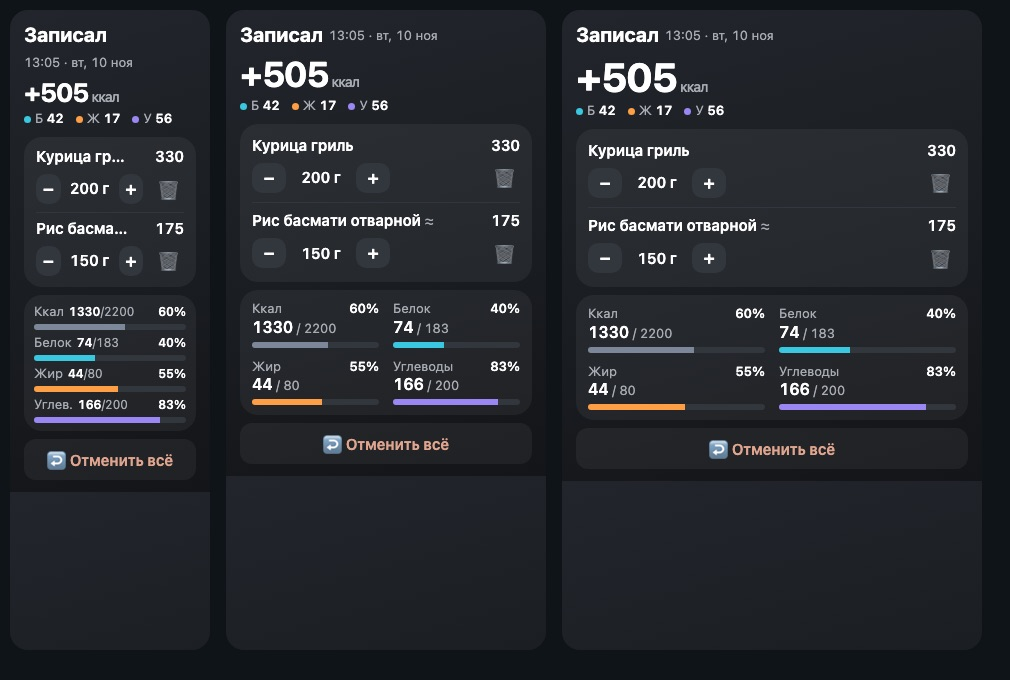
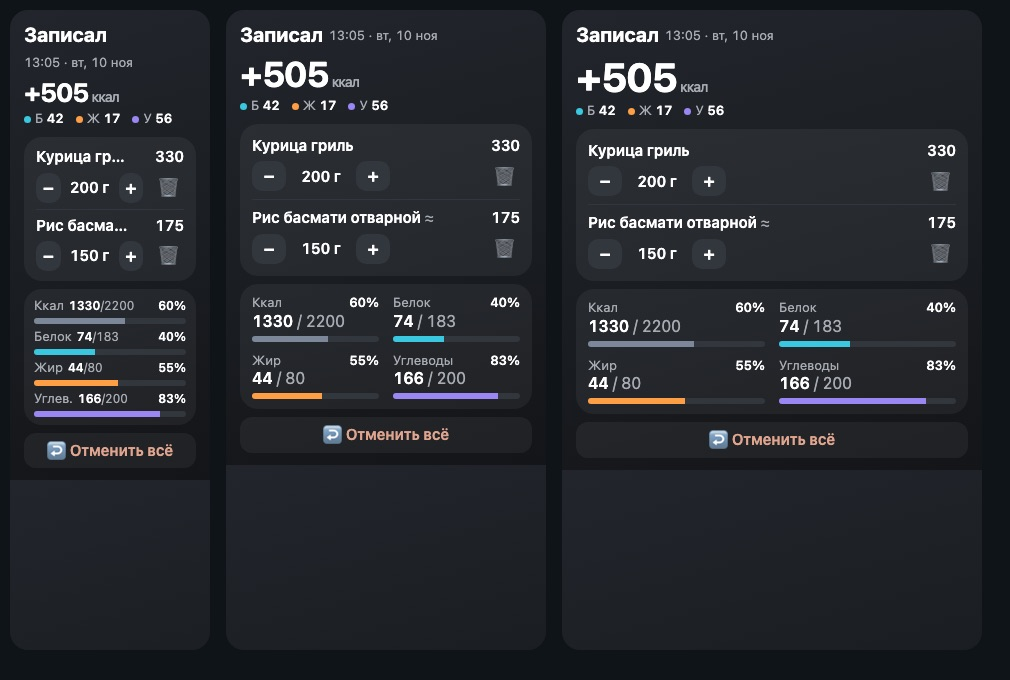
feat(bot): числа и графики виджетов растут при появлении

diff --git a/app/bot/widgets/meal.html b/app/bot/widgets/meal.html
@@ -1,40 +1,41 @@
 <style>
-:root{color-scheme:light dark;--t:light-dark(#0e1013,#fff);--m:light-dark(#4e5560,#a7abb2);--b1:light-dark(#f7f9fc,#22262c);--b2:light-dark(#e2e8f0,#131518);--cd:light-dark(rgba(255,255,255,.72),rgba(255,255,255,.055));--tr:light-dark(#d3dae3,#32363d);--br:light-dark(#5f6b7b,#7c8899);--pr:light-dark(#0b7d91,#3ac8e0);--fa:light-dark(#b25500,#ff9f45);--ca:light-dark(#6650d6,#9a87f4);--dg:light-dark(#c4281c,#ff453a);--ac:light-dark(#2d6a93,#5e9ac1);--at:light-dark(#fff,#0e1013);--al:light-dark(#9c4a2f,#e0a58f);--ok:light-dark(#1d7a3a,#34c759)}
+:root{color-scheme:light dark;--t:light-dark(#0e1013,#fff);--m:light-dark(#4e5560,#a7abb2);--b1:light-dark(#f7f9fc,#22262c);--b2:light-dark(#e2e8f0,#131518);--cd:light-dark(#ffffffb8,#ffffff0e);--tr:light-dark(#d3dae3,#32363d);--br:light-dark(#5f6b7b,#7c8899);--pr:light-dark(#0b7d91,#3ac8e0);--fa:light-dark(#b25500,#ff9f45);--ca:light-dark(#6650d6,#9a87f4);--dg:light-dark(#c4281c,#ff453a);--ac:light-dark(#2d6a93,#5e9ac1);--at:light-dark(#fff,#0e1013);--al:light-dark(#9c4a2f,#e0a58f)}
 body{margin:0;padding:12px 14px max(12px,env(safe-area-inset-bottom));font:15px/1.3 system-ui,sans-serif;overflow-wrap:anywhere;color:var(--t);background:linear-gradient(165deg,var(--b1),var(--b2));font-variant-numeric:tabular-nums}
 .r{display:flex;align-items:center;gap:6px}.sp{flex:1}.m{color:var(--m);font-size:13px}header{flex-wrap:wrap;margin-bottom:8px}header b{font-size:20px}
 .bg{font-size:clamp(26px,11vw,40px);font-weight:700;letter-spacing:-1px;line-height:1.05}.bg small{font-size:14px;color:var(--m);font-weight:500;margin-left:3px}
 .mc{display:flex;flex-wrap:wrap;gap:4px 12px;font-size:13px;color:var(--m);margin:4px 0 10px}.mc b{color:var(--t);font-weight:600}.d{display:inline-block;width:7px;height:7px;border-radius:50%;margin-right:4px}
 .c{background:var(--cd);border-radius:18px;padding:4px 12px;margin-bottom:8px}
 .it{display:grid;grid-template-columns:minmax(0,1fr) auto auto;gap:6px 10px;padding:8px 0;border-top:1px solid var(--tr);align-items:center;cursor:pointer}.it:first-child{border:0}.it .m{text-align:right}.ed{grid-column:1/3}
-.nm{overflow:hidden;text-overflow:ellipsis;white-space:nowrap;font-weight:600}.nm s{text-decoration:none;color:var(--m);font-weight:400}.kc{text-align:right;font-weight:600}.kc.pv{color:var(--m)}
-button{font:600 15px system-ui,sans-serif;border:0;border-radius:12px;background:var(--cd);color:var(--t);padding:6px 12px;cursor:pointer}
+.nm{overflow:hidden;text-overflow:ellipsis;white-space:nowrap;font-weight:600}.nm s,.dy s{text-decoration:none;color:var(--m);font-weight:400}.kc{text-align:right;font-weight:600}.kc.pv{color:var(--m)}
+button{font:inherit;font-weight:600;border:0;border-radius:12px;background:var(--cd);color:var(--t);padding:6px 12px;cursor:pointer}
 .st{display:flex;align-items:center;gap:4px}.st button{width:34px;height:30px;padding:0;border-radius:10px;background:var(--tr);font-size:18px;line-height:1}.st b{min-width:62px;text-align:center;font-weight:600}.st b.pv{color:var(--ac)}
 .dl{background:none;color:var(--al);padding:4px 6px;justify-self:end}.bz{opacity:.45;pointer-events:none}
-.tk{height:6px;border-radius:3px;background:var(--tr);margin:5px 0 8px;overflow:hidden}.tk i{display:block;height:100%}
-.dy{padding:10px 12px;display:grid;grid-template-columns:repeat(2,minmax(0,1fr));gap:10px 14px}.dy>div{display:grid;grid-template-columns:minmax(0,1fr) auto;align-items:baseline;font-size:13px}.dy>div>b{grid-column:1/3;font-size:16px;font-weight:600}.dy s{text-decoration:none;color:var(--m);font-weight:400;font-size:13px}.dy>div>i{font-style:normal;font-weight:600}.dy .tk{grid-column:1/-1;margin:4px 0 0}
+.tk{height:6px;border-radius:3px;background:var(--tr);overflow:hidden;grid-column:1/-1;margin-top:4px;order:3}.tk i{display:block;height:100%}
+.dy{padding:10px 12px;display:grid;grid-template-columns:repeat(2,minmax(0,1fr));gap:10px 14px}.dy>div{display:grid;grid-template-columns:minmax(0,1fr) auto;align-items:baseline;font-size:13px}.dy>div>b{grid-column:1/3;font-size:16px;font-weight:600}.dy>div>i{font-style:normal;font-weight:600}
 #ac{display:flex;gap:8px;flex-wrap:wrap}#ac button{flex:1 1 120px;white-space:nowrap;padding:8px}.un{color:var(--al)}.bk{background:var(--ac);color:var(--at)}
 #ts{font-size:13px;margin-top:8px;color:var(--m)}#ts:empty{display:none}
-@media (max-width:260px){.st b{min-width:50px}.st button{width:28px}.bg{font-size:26px}.it{padding:6px 0}.dy{grid-template-columns:minmax(0,1fr);gap:4px;padding:8px 10px}.dy>div{grid-template-columns:auto minmax(0,1fr) auto;column-gap:5px;font-size:12px}.dy>div>b{grid-column:auto;order:1;font-size:12px;white-space:nowrap}.dy s{font-size:12px}.dy>div>i{order:2}.dy .tk{order:3}}
-</style>
+@media (max-width:260px){.st b{min-width:50px}.st button{width:28px}.bg{font-size:26px}.it{padding:6px 0}.dy{grid-template-columns:minmax(0,1fr);gap:4px;padding:8px 10px}.dy>div{grid-template-columns:auto minmax(0,1fr) auto;column-gap:5px;font-size:12px}.dy>div>b{grid-column:auto;order:1;font-size:12px;white-space:nowrap}.dy>div>i{order:2}}
+.cu{counter-reset:n var(--n)}.cu::after{content:counter(n)}.an .cu{animation:cu 1s ease-out}@keyframes cu{from{--n:0}}.an .tk i{animation:g .9s ease-out}@keyframes g{from{width:0}}@media (prefers-reduced-motion:reduce){.an *{animation:none!important}}</style>
 <header class=r><b id=hd>Записал</b><span class=m id=at></span><span class=sp></span></header>
 <div id=bd></div><div id=ac></div><div id=ts></div>
 <script>
+let A1=1,CU=0;try{CSS.registerProperty({name:'--n',syntax:'<integer>',inherits:!1,initialValue:'0'});CU=1}catch(e){}const NU=v=>CU?'<span class=cu style="--n:'+v+'"></span>':v,AN=()=>{document.body.className=A1?'an':'';A1=0};
 const W=window.TelegramWidget,$=i=>document.getElementById(i),J=s=>{try{return JSON.parse(s)}catch(e){return null}},R=Math.round,
 T=s=>(s+'').replace(/[&<>"]/g,c=>'&#'+c.charCodeAt(0)+';'),K=()=>Math.random().toString(36).slice(2,8).padEnd(6,'0'),C=n=>(n+'').replace('.',','),
-M={busy:'Ещё пишу предыдущее…',gone:'Записи уже нет — открой «Сегодня».',old:'Вернуть уже нельзя — прошло 10 минут.',edited:'Запись уже поправили — вернуть нельзя.',bad:'Так нельзя — открой карточку заново.',BUSY:'Ещё пишу предыдущее…',RATE_LIMITED:'Слишком часто — секунду.',TIMEOUT:'Бот не ответил — проверь в «Сегодня».'};
+M={busy:'Ещё пишу предыдущее…',gone:'Записи уже нет — открой «Сегодня».',old:'Вернуть уже нельзя — прошло 10 мин.',edited:'Запись уже поправили — не вернуть.',bad:'Не вышло — открой карточку заново.',RATE_LIMITED:'Слишком часто — секунду.',TIMEOUT:'Бот не ответил — проверь в «Сегодня».'};
 let D=null,B=0,P={},S=0,F={};
 const hp=t=>{try{t?W.HapticFeedback.notificationOccurred(t):W.HapticFeedback.selectionChanged()}catch(e){}},
 G=x=>P[x[0]]!=null?P[x[0]]:x[2],
 L=['Ккал','Белок','Жир','Углеводы'],CL=['--br','--pr','--fa','--ca'],
 toast=s=>{$('ts').textContent=s||''};
-function draw(){const d=D;if(!d||d.v!=1)return;if(d.i[0]&&!d.i.some(x=>x[0]==S))S=d.i[0][0];const k=d.k;$('hd').textContent=d.hd||'Записал';$('at').textContent=d.at?d.at+' · '+d.dl:'';
+function draw(){const d=D;if(!d||d.v!=1)return;AN();if(d.i[0]&&!d.i.some(x=>x[0]==S))S=d.i[0][0];const k=d.k;$('hd').textContent=d.hd||'Записал';$('at').textContent=d.at?d.at+' · '+d.dl:'';
 if(d.x){$('bd').innerHTML='<div class=c style="padding:10px 12px"><b>'+(d.nb?'📌 Вошло в набор «'+T(d.nb)+'»':'Запись удалена')+'</b><div class=m>'+(d.nb?'Карточка набора — ниже.':T(d.i.map(x=>x[1]).join(', '))+' · '+k[0]+'\u00a0ккал')+'</div></div>';$('ac').innerHTML=d.z?'<button class=bk data-q=r>⏪ Вернуть</button>':'';return}
 const nw=document.body.clientWidth<260,n=nw?3:4,V=d.i.length>n+1?d.i.slice(0,n):d.i;if(V!=d.i&&!V.some(x=>x[0]==S))V[n-1]=d.i.find(x=>x[0]==S);
-$('bd').innerHTML='<div class=bg>+'+k[0]+'<small>ккал</small></div><div class=mc><span><i class=d style="background:var(--pr)"></i>Б <b>'+k[1]+'</b></span><span><i class=d style="background:var(--fa)"></i>Ж <b>'+k[2]+'</b></span><span><i class=d style="background:var(--ca)"></i>У <b>'+k[3]+'</b></span>'+(d.ss?'<span>приём пищи <b>'+d.ss+'</b></span>':'')+'</div><div class=c>'+
+$('bd').innerHTML='<div class=bg>+'+NU(k[0])+'<small>ккал</small></div><div class=mc><span><i class=d style="background:var(--pr)"></i>Б <b>'+k[1]+'</b></span><span><i class=d style="background:var(--fa)"></i>Ж <b>'+k[2]+'</b></span><span><i class=d style="background:var(--ca)"></i>У <b>'+k[3]+'</b></span>'+(d.ss?'<span>приём пищи <b>'+d.ss+'</b></span>':'')+'</div><div class=c>'+
 V.map(x=>{const g=G(x),p=g!=x[2],o=d.i.length<4||x[0]==S;return'<div class=it data-i='+x[0]+'><div class=nm>'+T(x[1])+(x[4]?' <s>≈</s>':'')+'</div><div class=m>'+(o||!x[2]?'':C(g)+'\u00a0г')+'</div><div class="kc'+(p?' pv':'')+'">'+(p?R(x[3]*g/x[2]):x[3])+'</div>'+
 (o?(x[5]?'<div class="st ed"><button data-s=-1>−</button><b'+(p?' class=pv':'')+'>'+C(g)+'\u00a0г</b><button data-s=1>+</button></div>':'<div class="m ed" style="text-align:left">'+(x[2]?C(x[2])+'\u00a0г · вес не правится':'без веса')+'</div>')+
 (d.i.length>1?'<button class=dl data-q=d>🗑</button>':'<span></span>'):'')+'</div>'}).join('')+(V.length<d.i.length?'<div class="it m" style="cursor:default;display:block">+'+(d.i.length-V.length)+' — правка в приложении ↓</div>':'')+'</div>'+
-'<div class="c dy">'+d.dy.map((r,i)=>'<div><span class=m>'+(nw&&i==3?'Углев.':L[i])+'</span><i'+(!i&&r[0]>r[1]?' style="color:var(--dg)"':'')+'>'+r[2]+'%</i><b>'+r[0]+'<s>'+(nw?'/':' / ')+r[1]+'</s></b><div class=tk><i style="width:'+Math.max(0,Math.min(100,r[2]))+'%;background:var('+CL[i]+')"></i></div></div>').join('')+'</div>';
+'<div class="c dy">'+d.dy.map((r,i)=>'<div><span class=m>'+(nw&&i==3?'Углев.':L[i])+'</span><i'+(!i&&r[0]>r[1]?' style="color:var(--dg)"':'')+'>'+r[2]+'%</i><b>'+NU(r[0])+'<s>'+(nw?'/':' / ')+r[1]+'</s></b><div class=tk><i style="width:'+Math.max(0,Math.min(100,r[2]))+'%;background:var('+CL[i]+')"></i></div></div>').join('')+'</div>';
 $('ac').innerHTML=(d.z==1?'<button class=bk data-q=r>⏪ Вернуть</button>':'')+'<button class=un data-q=u>↩ Отменить всё</button>'}
 function send(q,el){if(!W||!W.request)return;B=1;el&&el.classList.add('bz');toast('');
 const fin=(r,e)=>{B=0;el&&el.classList.remove('bz');if(r&&r.v){D=r;for(const id in P){const x=D.i.find(x=>x[0]==id);if(!x||x[2]==P[id])delete P[id]}hp('success')}else{P={};F={};hp('error');toast(M[r?r.err:e&&e.code]||'Не вышло — попробуй ещё раз.')}draw();flush()};

diff --git a/app/bot/widgets/today.html b/app/bot/widgets/today.html
@@ -18,33 +18,34 @@ svg{display:block;width:100%;height:auto;margin-top:6px}.ax{display:flex;justify
 .ch.on{background:var(--ac);color:var(--at)}.ch.on b{color:var(--at)}
 .it{display:flex;gap:8px;font-size:14px;padding:5px 0;border-top:1px solid var(--tr)}.it:first-child{border:0}.it span:nth-child(2){flex:1;white-space:nowrap;overflow:hidden;text-overflow:ellipsis}
 .fl{animation:fl 1.2s}@keyframes fl{20%{box-shadow:0 0 0 2px var(--ac)}}
-@media (max-width:260px){#dl,.pk,.ft s,.d{display:none}.ft{gap:4px}.ft .mi{font-size:11px}}@media (prefers-reduced-motion:reduce){.lv i,.fl,.an .tk i{animation:none}}
-</style>
+@media (max-width:260px){#dl,.pk,.ft s,.d{display:none}.ft{gap:4px}.ft .mi{font-size:11px}}@media (prefers-reduced-motion:reduce){.lv i,.fl,.an *{animation:none}}
+.cu{counter-reset:n var(--n)}.cu::after{content:counter(n)}.an .cu{animation:cu 1s ease-out}@keyframes cu{from{--n:0}}.an .dr{stroke-dasharray:1;animation:dr 1.2s ease-out}@keyframes dr{from{stroke-dashoffset:1}}</style>
 <header class=r><b>Сегодня</b><span class=m id=dl></span><span class=sp></span><span class="p lv" id=lv></span><span class=p id=sk></span></header>
 <section class=c id=hc><div id=hero></div><div class=ft id=ft></div></section>
 <section class=c id=pc></section>
 <div class=m>По часам <span id=hm></span></div><div id=hs></div><div id=ls></div>
 <script>
-const W=window.TelegramWidget,$=i=>document.getElementById(i),RM=window.matchMedia&&matchMedia('(prefers-reduced-motion: reduce)').matches;
+let A1=1,CU=0;try{CSS.registerProperty({name:'--n',syntax:'<integer>',inherits:!1,initialValue:'0'});CU=1}catch(e){}const NU=v=>CU?'<span class=cu style="--n:'+v+'"></span>':v,AN=()=>{document.body.className=A1?'an':'';A1=0};
+const W=window.TelegramWidget,$=i=>document.getElementById(i);
 let D=null,E=0,S=-1,F=1,K='',ST=0,B=0;
 const J=s=>{try{return JSON.parse(s)}catch(e){return null}},R=Math.round,C=n=>(n+'').replace('.',','),H=i=>('0'+(D.sh+i)%24).slice(-2),
 T=s=>(s+'').replace(/[&<>"]/g,c=>'&#'+c.charCodeAt(0)+';'),
 bar=(v,g,c)=>'<div class=tk><i style="width:'+(g>0?Math.max(0,Math.min(100,v/g*100)):0)+'%;background:var('+c+')"></i></div>',
-col=(l,n,u,c,sub,b)=>'<div><div class=m>'+l+'</div><div class=bg style="color:var('+c+')">'+n+(u?'<small>'+u+'</small>':'')+'</div>'+b+'<div class=mi>'+sub+'</div></div>',
+col=(l,n,u,c,sub,b)=>'<div><div class=m>'+l+'</div><div class=bg style="color:var('+c+')">'+NU(n)+(u?'<small>'+u+'</small>':'')+'</div>'+b+'<div class=mi>'+sub+'</div></div>',
 ft=(l,c,v,g)=>'<div><div class=mi>'+(c?'<i class=d style="background:var('+c+')"></i>':'')+l+'</div><b>'+v+'</b>'+(g?'<s>/'+g+'</s>':'')+'</div>';
-function hero(){const g=D.g,e=D.e,lk=D.l[0],lp=D.l[1],pk=D.pk!=null?'<span class=pk> · '+C(D.pk)+'\u00a0г/кг</span>':'';$('hc').className='c'+(F&&!RM?' an':'');
+function hero(){const g=D.g,e=D.e,lk=D.l[0],lp=D.l[1],pk=D.pk!=null?'<span class=pk> · '+C(D.pk)+'\u00a0г/кг</span>':'';
 $('hero').innerHTML=E?col('Съедено ккал',e[0],'','--t','из '+g[0]+(lk>=0?' · ещё '+lk:' · перебор '+-lk),bar(e[0],g[0],'--br'))+col('Съедено белка',e[1],'г','--t','из '+g[1]+pk,bar(e[1],g[1],'--pr')):col(lk<0?'Перебор ккал':'Осталось ккал',Math.abs(lk),'',lk<0?'--dg':'--t',e[0]+' из '+g[0],bar(e[0],g[0],'--br'))+col('Осталось белка',Math.max(0,lp),'г',lp>0&&e[0]>0?'--wa':'--t',e[1]+' из '+g[1]+pk,bar(e[1],g[1],'--pr'));
 $('ft').innerHTML=ft('Жир','--fa',e[2],g[2])+ft('Углев.','--ca',e[3],g[3])+ft('Оценка','',e[0]?'≈'+D.es+'%':'—')}
 function pace(){const n=D.n,p=$('pc');p.style.display=n&&D.g[0]?'':'none';if(!n||!D.g[0])return;const hn=D.hn,cum=[],h={};let a=0;(D.h||[]).forEach(x=>h[x[0]]=x[1]);for(let i=0;i<=hn;i++){a+=h[i]||0;cum.push(a)}
-const mx=Math.max(D.g[0],n[23],a)*1.05,X=i=>i*300/23,Y=v=>(66-v/mx*62).toFixed(1),pl=v=>v.map((y,i)=>X(i).toFixed(1)+','+Y(y)).join(' '),b=v=>'<b style="color:var(--t)">'+R(v)+'</b>',L=(v,c,w,d)=>'<polyline points="'+pl(v)+'" fill=none stroke="var('+c+')" stroke-width='+w+(d?' stroke-dasharray="5 4"':' stroke-linejoin=round stroke-linecap=round')+' />';
+const mx=Math.max(D.g[0],n[23],a)*1.05,X=i=>i*300/23,Y=v=>(66-v/mx*62).toFixed(1),pl=v=>v.map((y,i)=>X(i).toFixed(1)+','+Y(y)).join(' '),b=v=>'<b style="color:var(--t)">'+R(v)+'</b>',L=(v,c,w,d)=>'<polyline points="'+pl(v)+'" fill=none stroke="var('+c+')" stroke-width='+w+(d?' stroke-dasharray="5 4"':' stroke-linejoin=round stroke-linecap=round pathLength=1 class=dr')+' />';
 p.innerHTML='<div class=m>К '+H(hn+1)+':00 обычно '+b(n[hn])+' · сейчас '+b(D.nk!=null?D.nk:a)+'</div><svg viewBox="0 0 300 70"><line x1=0 x2=300 y1='+Y(D.g[0])+' y2='+Y(D.g[0])+' stroke="var(--tr)" stroke-dasharray="2 4"/>'+L(n,'--li',2,1)+L(cum,'--da',3)+'<circle cx='+X(hn)+' cy='+Y(a)+' r=4.5 fill="var(--da)"/></svg><div class=ax>'+[0,6,12,18,23].map(i=>'<span>'+H(i)+'</span>').join('')+'</div><div class=mi>— сегодня · - - обычно · ··· цель</div>'}
 function hours(){const al=D.h||[],k=Math.max(3,Math.floor(((document.body.clientWidth||320)-22)/58)),hs=al.slice(-k);if(!hs.some(x=>x[0]==S))S=hs.length?hs[hs.length-1][0]:-1;
 $('hm').textContent=al.length>k?'· ещё '+(al.length-k)+' ч раньше':'';$('hs').innerHTML=hs.length?hs.map(x=>'<div class="ch'+(x[0]==S?' on':'')+'" data-h='+x[0]+'>'+H(x[0])+'<b>'+x[1]+'</b></div>').join(''):'<div class=m>Пока пусто — напиши, что съел.</div>';
 const all=(D.it||[]).filter(x=>x[0]==S),its=all.slice(0,5),mo=((hs.find(x=>x[0]==S)||[])[2]||all.length)-its.length;
 $('ls').innerHTML=its.map(x=>'<div class=it><span class=m>'+H(x[0])+':'+x[1]+'</span><span>'+T(x[2])+'</span><b>'+(x[4]?'≈':'')+x[3]+'</b></div>').join('')+(mo>0?'<div class="it m">Ещё '+mo+' — в приложении ↓</div>':'')}
-function draw(s){const d=J(s);if(!d||d.v!=1)return;const k=JSON.stringify({...d,at:0,hn:0}),ch=K&&k!=K;K=k;D=d;
+function draw(s){const d=J(s);if(!d||d.v!=1)return;const k=JSON.stringify({...d,at:0,hn:0}),ch=K&&k!=K,sm=K==k;K=k;D=d;
 $('dl').textContent=d.dl;$('lv').innerHTML=ST?(ST>1?'снимок':'итог дня'):'<i></i>'+d.at;const k2=d.s;$('sk').style.display=k2?'':'none';$('sk').textContent=k2?(k2[0]?'🔥 '+k2[0]+(k2[1]?' ❄':'')+' · ':'')+k2[2]+' из '+k2[3]:'';
-hero();pace();hours();F=0;
+if(sm)return;AN();hero();pace();hours();F=0;
 if(ch){const c=$('hc');c.classList.remove('fl');void c.offsetWidth;c.classList.add('fl')}}
 document.addEventListener('click',ev=>{const t=ev.target.closest('[data-h]');if(t){S=+t.dataset.h;hours();hp()}else if(ev.target.closest('#hero')){E=1-E;hero();hp()}});
 function hp(){try{W.HapticFeedback.selectionChanged()}catch(e){}}

diff --git a/app/bot/widgets/weight.html b/app/bot/widgets/weight.html
@@ -8,22 +8,23 @@ svg{display:block;width:100%;height:auto}.ax{display:flex;justify-content:space-
 #tp{min-height:18px;font-size:13px;margin-top:4px}
 .ft{display:grid;grid-template-columns:repeat(3,minmax(0,1fr));gap:6px;margin-top:10px}.ft div{font-size:12px;color:var(--m)}.ft b{display:block;font-size:16px;color:var(--t);white-space:nowrap}
 @media (max-width:260px){.ft{grid-template-columns:minmax(0,1fr);gap:4px}.ft div{display:flex;justify-content:space-between;align-items:baseline;gap:6px}.ft b{font-size:15px}}
-</style>
+.an .dr{stroke-dasharray:1;animation:dr 1.2s ease-out}@keyframes dr{from{stroke-dashoffset:1}}.an .fi{animation:fi .6s .7s both}@keyframes fi{from{opacity:0}}@media (prefers-reduced-motion:reduce){.an *{animation:none!important}}</style>
 <header class=r><b>⚖ Вес</b></header>
 <div class=bg id=l></div><div class=m id=sb></div>
 <div class=c><svg id=sv viewBox="0 0 300 120"></svg><div class=ax><span id=a></span><span id=z></span></div><div id=tp class=m>Тап по точке — дата и вес</div></div>
 <div class=ft><div>с прошлого<b id=f1></b></div><div>за период<b id=f2></b></div><div>за 4 недели<b id=f3></b></div></div>
 <script>
+let A1=1,CU=0;try{CSS.registerProperty({name:'--n',syntax:'<integer>',inherits:!1,initialValue:'0'});CU=1}catch(e){}const NU=v=>CU?'<span class=cu style="--n:'+v+'"></span>':v,AN=()=>{document.body.className=A1?'an':'';A1=0};
 const W=window.TelegramWidget,$=i=>document.getElementById(i),J=s=>{try{return JSON.parse(s)}catch(e){return null}},
 K=v=>v==null?'—':(v>0?'+':'')+(v.toFixed(1)).replace('.',',').replace('-','−'),A=v=>K(v).replace('+',''),M=['янв','фев','мар','апр','мая','июн','июл','авг','сен','окт','ноя','дек'];
 let D=null;
 function dt(n){const d=new Date(D.a0+'T12:00:00Z');d.setUTCDate(d.getUTCDate()+n);return d.getUTCDate()+' '+M[d.getUTCMonth()]}
-function draw(){D=J(W&&W.chatData);if(!D||D.v!=1)return;const p=D.p,xs=p.map(q=>q[0]),ws=p.map(q=>q[1]),x1=Math.max(...xs)||1,lo=Math.min(...ws),hi=Math.max(...ws),pad=Math.max(.3,(hi-lo)*.15),
+function draw(){D=J(W&&W.chatData);if(!D||D.v!=1)return;AN();const p=D.p,xs=p.map(q=>q[0]),ws=p.map(q=>q[1]),x1=Math.max(...xs)||1,lo=Math.min(...ws),hi=Math.max(...ws),pad=Math.max(.3,(hi-lo)*.15),
 X=x=>(8+x/x1*284).toFixed(1),Y=w=>(10+(hi+pad-w)/(hi-lo+2*pad)*92).toFixed(1),line=p.map(q=>X(q[0])+','+Y(q[1])).join(' '),
 c=D.st=='ok'?'--ok':D.st=='bad'?'--wa':'--m',il=ws.indexOf(lo),ih=ws.indexOf(hi),n=p.length-1,
 lab=(i,s,dy)=>{const x=+X(p[i][0]);return i==n?'':'<text x='+x+' y='+(+Y(p[i][1])+dy)+' text-anchor='+(x<50?'start':x>250?'end':'middle')+' font-size=10 fill="var(--m)">'+s+' '+A(p[i][1])+'</text>'};
 $('l').innerHTML=A(D.l)+'<small>кг</small>';$('sb').textContent='последний замер, '+D.z;$('f2').style.color='var('+c+')';
-$('sv').innerHTML='<defs><linearGradient id=g x1=0 y1=0 x2=0 y2=1><stop offset=0 stop-color="var(--da)" stop-opacity=.22 /><stop offset=1 stop-color="var(--da)" stop-opacity=0 /></linearGradient></defs><polygon points="'+X(xs[0])+',112 '+line+' '+X(xs[n])+',112" fill="url(#g)"/><polyline points="'+line+'" fill=none stroke="var(--da)" stroke-width=2.5 stroke-linejoin=round />'+p.map((q,i)=>'<circle cx='+X(q[0])+' cy='+Y(q[1])+' r='+(i==n?5:3)+' fill="var(--da)"/>').join('')+p.map((q,i)=>'<circle data-i='+i+' cx='+X(q[0])+' cy='+Y(q[1])+' r=11 fill="var(--da)" fill-opacity=0 />').join('')+(lo<hi?lab(il,'мин',14)+lab(ih,'макс',-8):'');
+$('sv').innerHTML='<defs><linearGradient id=g x1=0 y1=0 x2=0 y2=1><stop offset=0 stop-color="var(--da)" stop-opacity=.22 /><stop offset=1 stop-color="var(--da)" stop-opacity=0 /></linearGradient></defs><polygon points="'+X(xs[0])+',112 '+line+' '+X(xs[n])+',112" fill="url(#g)" class=fi /><polyline points="'+line+'" fill=none stroke="var(--da)" stroke-width=2.5 stroke-linejoin=round pathLength=1 class=dr />'+p.map((q,i)=>'<circle class=fi cx='+X(q[0])+' cy='+Y(q[1])+' r='+(i==n?5:3)+' fill="var(--da)"/>').join('')+p.map((q,i)=>'<circle data-i='+i+' cx='+X(q[0])+' cy='+Y(q[1])+' r=11 fill="var(--da)" fill-opacity=0 />').join('')+(lo<hi?lab(il,'мин',14)+lab(ih,'макс',-8):'');
 $('a').textContent=D.a;$('z').textContent=D.z;$('f1').textContent=D.dd==null?'—':K(D.dd)+'\u00a0кг';$('f2').textContent=K(D.dp)+'\u00a0кг';$('f3').textContent=D.dm==null?'—':K(D.dm)+'\u00a0кг'}
 document.addEventListener('click',e=>{const t=e.target.closest('[data-i]');if(!t||!D)return;const q=D.p[+t.dataset.i];$('tp').innerHTML=dt(q[2])+' · <b style="color:var(--t)">'+A(q[1])+'\u00a0кг</b>';try{W.HapticFeedback.selectionChanged()}catch(x){}});
 if(W){W.onEvent('chatDataChanged',draw);draw();try{W.ready&&W.ready()}catch(e){}}else draw();

diff --git a/app/bot/widgets/evening.html b/app/bot/widgets/evening.html
@@ -11,12 +11,13 @@ body{margin:0;padding:12px 14px max(12px,env(safe-area-inset-bottom));font:15px/
 button{font:600 15px system-ui,sans-serif;border:0;border-radius:14px;padding:11px 14px;width:100%;background:var(--ac);color:var(--at);cursor:pointer;margin-top:8px}
 button[disabled]{background:var(--tr);color:var(--m)}.dn{color:var(--ok);font-weight:600}
 @media (max-width:260px){.bg{font-size:20px}.bg small{display:block;margin:0}.hr{gap:8px}#cl .m{display:none}#nt div{font-size:13px}}
-</style>
+.cu{counter-reset:n var(--n)}.cu::after{content:counter(n)}.an .cu{animation:cu 1s ease-out}@keyframes cu{from{--n:0}}.an .tk i{animation:g .9s ease-out}@keyframes g{from{width:0}}@media (prefers-reduced-motion:reduce){.an *{animation:none!important}}</style>
 <header class=r><b>🌙 Итог дня</b><span class=m id=dl></span><span class=sp></span><span class=p id=sk></span></header>
 <div class=c><div class=hr id=hr></div><div class=ft id=ft></div></div>
 <div class=c id=nt></div>
 <div class=c id=cl></div>
 <script>
+let A1=1,CU=0;try{CSS.registerProperty({name:'--n',syntax:'<integer>',inherits:!1,initialValue:'0'});CU=1}catch(e){}const NU=v=>CU?'<span class=cu style="--n:'+v+'"></span>':v,AN=()=>{document.body.className=A1?'an':'';A1=0};
 const W=window.TelegramWidget,$=i=>document.getElementById(i),J=s=>{try{return JSON.parse(s)}catch(e){return null}},
 T=s=>(s+'').replace(/[&<>"]/g,c=>'&#'+c.charCodeAt(0)+';'),K=()=>Math.random().toString(36).slice(2,8).padEnd(6,'0'),
 bar=(v,g,c)=>'<div class=tk><i style="width:'+(g>0?Math.max(0,Math.min(100,v/g*100)):0)+'%;background:var('+c+')"></i></div>',
@@ -25,8 +26,8 @@ let D=null,B=0;
 function pill(){const s=D.s;$('sk').style.display=s?'':'none';$('sk').textContent=s?(s[0]?'🔥 '+s[0]+(s[1]?' ❄':'')+' · ':'')+s[2]+' из '+s[3]:''}
 function close_(t){$('cl').innerHTML=D.c?'<div class=dn>✓ День закрыт — записан полностью</div><div class=m>Отмечен как полный. Вспомнишь ещё — просто напиши в чат.</div>':
 '<div><b>Всё записал за день?</b></div><div class=m>Отметка, что записано всё: без неё неполный день не отличить от полного.</div><button id=bt>✅ Всё записал</button>'+(t?'<div class=m style="margin-top:6px">'+T(t)+'</div>':'')}
-function draw(){D=J(W&&W.chatData);if(!D||D.v!=1)return;const e=D.e,g=D.g,ov=e[0]>g[0];$('dl').textContent=D.dl;pill();
-$('hr').innerHTML='<div><div class=m>Ккал</div><div class=bg'+(ov?' style="color:var(--dg)"':'')+'>'+e[0]+'<small>из '+g[0]+'</small></div>'+bar(e[0],g[0],'--br')+'</div><div><div class=m>Белок</div><div class=bg>'+e[1]+'<small>из '+g[1]+'\u00a0г</small></div>'+bar(e[1],g[1],'--pr')+'</div>';
+function draw(){D=J(W&&W.chatData);if(!D||D.v!=1)return;AN();const e=D.e,g=D.g,ov=e[0]>g[0];$('dl').textContent=D.dl;pill();
+$('hr').innerHTML='<div><div class=m>Ккал</div><div class=bg'+(ov?' style="color:var(--dg)"':'')+'>'+NU(e[0])+'<small>из '+g[0]+'</small></div>'+bar(e[0],g[0],'--br')+'</div><div><div class=m>Белок</div><div class=bg>'+NU(e[1])+'<small>из '+g[1]+'\u00a0г</small></div>'+bar(e[1],g[1],'--pr')+'</div>';
 $('ft').innerHTML='<i class=d style="background:var(--fa);margin-left:0"></i>Жир <b>'+e[2]+'</b>/'+g[2]+'<i class=d style="background:var(--ca)"></i>Углев. <b>'+e[3]+'</b>/'+g[3];
 const nt=(D.lo?['Записано '+e[0]+'\u00a0ккал — похоже, не всё попало в бота. Кинь текстом, что ещё ел.']:[]).concat(D.nt||[]);$('nt').style.display=nt.length?'':'none';$('nt').innerHTML=nt.map(x=>'<div>'+T(x)+'</div>').join('');close_()}
 document.addEventListener('click',ev=>{if(ev.target.id!='bt'||!W||!W.request||B||!D)return;const b=ev.target;B=1;b.disabled=true;b.textContent='Закрываю…';

diff --git a/app/bot/widgets/frequent.html b/app/bot/widgets/frequent.html
@@ -11,20 +11,21 @@ header{display:flex;align-items:baseline;gap:8px;margin-bottom:10px}header b{fon
 #ts button[disabled]{background:var(--tr);color:var(--m)}
 @media (prefers-reduced-motion:reduce){.tl{transition:none}.tl.ok{animation:none;box-shadow:inset 0 0 0 2px var(--ok)}}
 @media (max-width:260px){#g{grid-template-columns:minmax(0,1fr);gap:6px}.tl{padding:8px 10px;min-height:0}.tl b{white-space:nowrap;text-overflow:ellipsis}header .m{display:none}}
-</style>
+.an .tl{animation:fu .45s ease-out both}@keyframes fu{from{opacity:0;transform:translateY(6px)}}@media (prefers-reduced-motion:reduce){.an *{animation:none!important}}</style>
 <header><b>⚡ Частое</b><span class=m>тап — запишу сразу</span></header>
 <div id=g lang=ru></div><div id=ts><span id=tx></span><button id=ub>⏪ Вернуть</button></div>
 <script>
+let A1=1,CU=0;try{CSS.registerProperty({name:'--n',syntax:'<integer>',inherits:!1,initialValue:'0'});CU=1}catch(e){}const NU=v=>CU?'<span class=cu style="--n:'+v+'"></span>':v,AN=()=>{document.body.className=A1?'an':'';A1=0};
 const W=window.TelegramWidget,$=i=>document.getElementById(i),J=s=>{try{return JSON.parse(s)}catch(e){return null}},
 T=s=>(s+'').replace(/[&<>"]/g,c=>'&#'+c.charCodeAt(0)+';');
 let D=null,B=0,U=null;
 const K=()=>Math.random().toString(36).slice(2,8).padEnd(6,'0'),hp=t=>{try{W.HapticFeedback.notificationOccurred(t)}catch(e){}},
 L=l=>l<0?'перебор '+-l:'осталось '+l,
 ERR={BUSY:'Ещё пишу предыдущее…',RATE_LIMITED:'Слишком часто — секунду.',TIMEOUT:'Бот не ответил — проверь в «Сегодня».',NOT_ALLOWED:'Открой чат с ботом, чтобы записать.'};
-function draw(){D=J(W&&W.chatData);const t=D&&D.t||[];$('g').innerHTML=t.length?t.map((x,i)=>'<div class=tl data-i='+i+'><b>'+(x[2][0]=='s'?'📌 ':'')+T(x[0])+'</b><span>'+(x[2][0]=='s'?'':T(x[1]).replace(' ','\u00a0')+' · ')+(x[4]?'≈':'')+x[3]+'\u00a0ккал</span></div>').join(''):'<p class=m>Пока нечего показать — запиши пару раз одно и то же.</p>'}
+function draw(){AN();D=J(W&&W.chatData);const t=D&&D.t||[];$('g').innerHTML=t.length?t.map((x,i)=>'<div class=tl data-i='+i+' style="animation-delay:'+i*40+'ms"><b>'+(x[2][0]=='s'?'📌 ':'')+T(x[0])+'</b><span>'+(x[2][0]=='s'?'':T(x[1]).replace(' ','\u00a0')+' · ')+(x[4]?'≈':'')+x[3]+'\u00a0ккал</span></div>').join(''):'<p class=m>Пока нечего показать — запиши пару раз одно и то же.</p>'}
 function toast(s,u){$('ts').style.display='flex';$('tx').innerHTML=s;$('ub').style.display=u?'':'none';$('ub').disabled=false}
 function idle(el){B=0;el.classList.remove('bz');const b=el.querySelector('b');b.innerHTML=b.dataset.n}
-document.addEventListener('click',ev=>{const el=ev.target.closest('.tl');
+document.addEventListener('click',ev=>{document.body.classList.remove('an');const el=ev.target.closest('.tl');
 if(el&&W&&!B){const x=D.t[+el.dataset.i],b=el.querySelector('b');B=1;document.querySelectorAll('.ok').forEach(t=>t.classList.remove('ok'));el.classList.add('bz');b.dataset.n=b.innerHTML;b.textContent='Пишу…';
 let pr;try{pr=W.request('w:'+x[2]+':'+K())}catch(e){idle(el);return}pr.then(a=>{const r=J(a&&a.result)||{};idle(el);
 if(r.ok){U=r.m;el.classList.add('ok');hp('success');toast('✓ Записал: <b>'+T(r.n)+'</b> · '+r.k+'\u00a0ккал · '+L(r.l),1)}

diff --git a/app/bot/widgets/week.html b/app/bot/widgets/week.html
@@ -12,7 +12,7 @@ svg{display:block;width:100%;height:clamp(80px,30vw,120px);margin-top:6px}.c>.r{
 .d{display:inline-block;width:7px;height:7px;border-radius:50%;margin-right:4px}
 footer{font-size:13px;color:var(--m);margin-top:10px}
 @media (max-width:260px){.ft{grid-template-columns:repeat(2,minmax(0,1fr))}.ax{font-size:10px}#kk,.ft s{display:none}.tb span{padding:5px 9px}#dt{font-size:12px;min-height:0}}
-</style>
+.an #sv rect{transform-box:fill-box;transform-origin:50% 100%;animation:gy .9s ease-out}@keyframes gy{from{transform:scaleY(0)}}@media (prefers-reduced-motion:reduce){.an *{animation:none!important}}</style>
 <header class=r><b>📈 Неделя</b><span class=m id=tt></span></header>
 <div id=h></div><div class=m id=hs></div>
 <div class=c><div class=r><div class=tb><span data-t=0 class=on>Калории</span><span data-t=1>Белок</span></div><span class=sp></span><span class=m id=kk></span></div>
@@ -20,11 +20,12 @@ footer{font-size:13px;color:var(--m);margin-top:10px}
 <div class=c><div class=m id=al></div><div class=ft id=ft></div></div>
 <footer id=tl></footer>
 <script>
+let A1=1,CU=0;try{CSS.registerProperty({name:'--n',syntax:'<integer>',inherits:!1,initialValue:'0'});CU=1}catch(e){}const NU=v=>CU?'<span class=cu style="--n:'+v+'"></span>':v,AN=()=>{document.body.className=A1?'an':'';A1=0};
 const W=window.TelegramWidget,$=i=>document.getElementById(i),J=s=>{try{return JSON.parse(s)}catch(e){return null}},
 T=s=>(s+'').replace(/[&<>"]/g,c=>'&#'+c.charCodeAt(0)+';'),N=n=>(n+'').replace(/\B(?=(\d{3})+(?!\d))/g,'\u202f'),
 CL=['--nu','--ok','--wa','--dg'],WD=['не записан','в цели','меньше половины цели','перебор'];
 let D=null,M=0,S=-1;
-function chart(){const c=D.c,g=M?D.g[1]:0,v=c.map(x=>M?x[3]:x[2]),gl=c.map(x=>M?g:x[6]),mx=Math.max(...v,...gl)*1.08||1,Y=x=>(104-x/mx*98).toFixed(1),w=40;
+function chart(){AN();const c=D.c,g=M?D.g[1]:0,v=c.map(x=>M?x[3]:x[2]),gl=c.map(x=>M?g:x[6]),mx=Math.max(...v,...gl)*1.08||1,Y=x=>(104-x/mx*98).toFixed(1),w=40;
 $('sv').innerHTML=c.map((x,i)=>{const h=104-Y(v[i]);return(x[8]?'':'<rect data-i='+i+' x='+(i*w+6)+' y='+Y(v[i])+' width=28 height='+Math.max(h,v[i]?2:0)+' rx=5 fill="var('+(M?'--pr':CL[x[1]])+')"'+(i==S?'':' fill-opacity=.85')+' />')+
 '<line x1='+(i*w+2)+' x2='+(i*w+38)+' y1='+Y(gl[i])+' y2='+Y(gl[i])+' stroke="var(--m)" stroke-dasharray="3 3" vector-effect=non-scaling-stroke />'+(i==S?'<rect x='+(i*w+3)+' y=2 width=34 height=104 rx=7 fill=none stroke="var(--ac)" stroke-width=1.5 vector-effect=non-scaling-stroke />':'')+'<rect data-i='+i+' x='+i*w+' y=0 width=40 height=110 fill-opacity=0 />'}).join('');
 $('ax').innerHTML=c.map((x,i)=>'<span'+(i==S||x[7]?' class=on':'')+'>'+x[0]+'</span>').join('');

diff --git a/tests/unit/test_widgets.py b/tests/unit/test_widgets.py
@@ -1195,3 +1195,21 @@ def test_неделя_тысячи_одним_видом() -> None:
 def test_плитка_частого_граммы_не_отрываются() -> None:
     """Хвост «180 г» — общий с текстом кнопки FR-40; неразрывный пробел ставит шаблон."""
     assert "T(x[1]).replace(' ','\\u00a0')" in template("frequent")
+
+
+@pytest.mark.parametrize("path", sorted(WIDGETS.glob("*.html")), ids=lambda p: p.name)
+def test_анимация_только_css_и_при_появлении(path: Path) -> None:
+    """D-64: анимация — CSS под классом `an`, который ставится только первым показом; счётчику
+    свойство регистрирует JS в `try` (нет `registerProperty` — число сразу финальное, D-56);
+    `prefers-reduced-motion` её снимает."""
+    html = path.read_text()
+    assert "AN=()=>{document.body.className=A1?'an':'';A1=0}" in html
+    assert "try{CSS.registerProperty(" in html
+    assert re.search(r"prefers-reduced-motion:reduce\)\{[^}]*\.an \*\{animation:none", html)
+    assert ".an " in html.split("</style>")[0]
+
+
+def test_сегодня_одинаковый_ответ_не_перерисовывает() -> None:
+    """Тяга `t:` приходит через долю секунды после показа: тот же день не должен перерисовать
+    героя и оборвать счёт (D-64)."""
+    assert "sm=K==k" in template("today") and "if(sm)return;" in template("today")

diff --git a/docs/SPEC.md b/docs/SPEC.md
@@ -1239,7 +1239,12 @@
     не ждёт HTTP). На любой `widget_query` ответ уходит всегда — и при сбое БД (`{"err":"fail"}`),
     иначе виджет 15 с ждёт и получает TIMEOUT.
   - **Рантайм виджета** — не браузер: числа и бары рисуются сразу финальными; рост баров при первом
-    показе — CSS-анимацией, без `requestAnimationFrame`/таймеров (их может не быть, D-56). Вызовы
+    показе — CSS-анимацией, без `requestAnimationFrame`/таймеров (их может не быть, D-56).
+    **Анимация при появлении** (D-64): только при первом показе виджета — числа героя досчитываются
+    от нуля (CSS `counter` + свойство `--n`, которое регистрирует JS, если есть `CSS.registerProperty`;
+    нет — число сразу финальное), бары и столбики растут, линии веса и темпа прорисовываются, плитки
+    «Частого» проявляются лесенкой. Пуш, тяга, тап, вкладка — без анимации; одинаковый ответ на `t:`
+    «Сегодня» не перерисовывает вовсе (иначе обрывал бы анимацию). `prefers-reduced-motion` — без неё. Вызовы
     `TelegramWidget` (`request`, `ready`) — в `try`: исключение не должно оставить виджет «занятым».
   - **FR-49.1. «📊 Сегодня» виджетом (D-43).** Кнопка «📊 Сегодня», `/today`, вопрос «сколько
     осталось» и старая кнопка демо шлют виджет `today` вместо rich-экрана FR-9.
@@ -2651,6 +2656,11 @@
   `compose pull` → `up -d --no-build` → `logout`. bot и api — один образ, а не два одинаковых по ~600 МБ.
   Код по-прежнему смонтирован из checkout, и тот же хэш лежит в теге образа. Отмена — вернуть
   `up -d --build` в деплой и убрать `image:` из `docker-compose.prod.yml`.
+- **D-64 (10.11.2026, решение владельца; FR-49, уточняет D-56).** **Числа и графики анимируются при
+  появлении виджета.** «Чтобы вырастали прям на глазах», но без кнопки «повторить» и без повтора на
+  каждом обновлении. Как — FR-49 «Анимация при появлении»: только CSS, правда — в данных, JS лишь
+  регистрирует свойство счётчика. Цена: +≈200 байт на шаблон; карточка приёма — 4094 из 4096 байт
+  после zlib, следующая правка её шаблона должна что-то освободить.
 - **D-63 (10.11.2026, решение владельца; FR-8, FR-49.3, заменяет D-55).** **PNG веса и Pillow удалены.**
   Виджеты включены у обоих пользователей, график веса — виджетом; «к PNG не вернёмся». Удалены
   `app/bot/dashboard_image.py`, зависимость `pillow` и шрифт `fonts-dejavu-core` в образе. Цена: без
